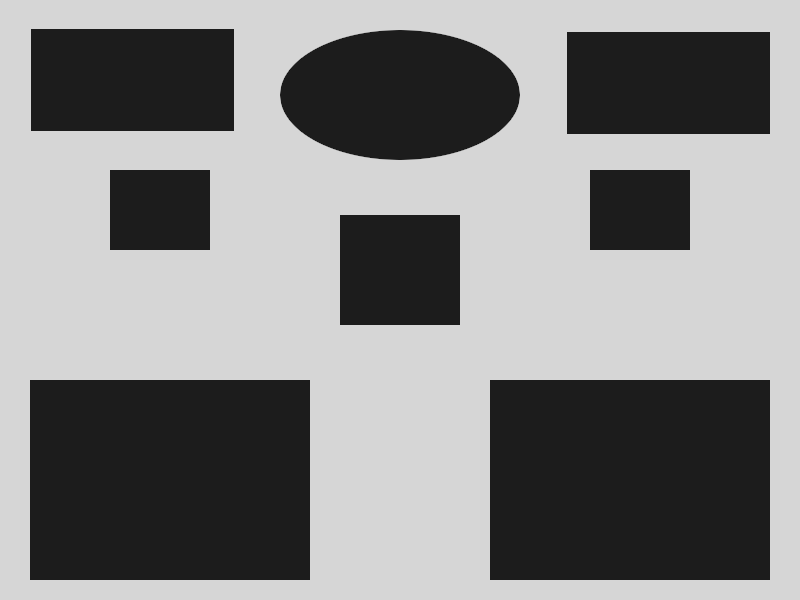
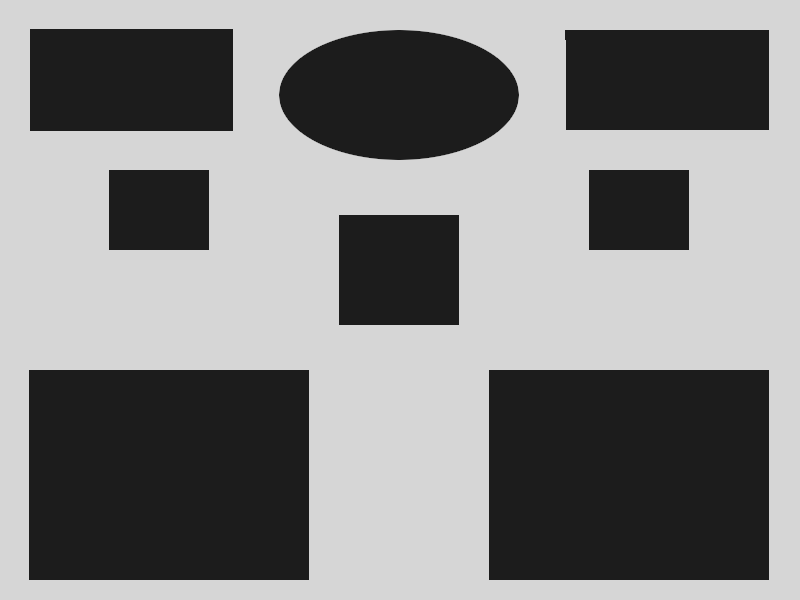
Adding the time-out timer and other stuff.

diff --git a/src/main_window.py b/src/main_window.py
@@ -7,37 +7,63 @@ import team
 
 WIDTH = 800
 HEIGHT = 600
-main_window = pyglet.window.Window(WIDTH, HEIGHT, "Fingerpost")
-timer = countdown.Timer(main_window.width//2 - 70, main_window.height//2 + 220, 50)
+main_window = pyglet.window.Window(WIDTH, HEIGHT, "Handball Fingerpost")
+fps = pyglet.clock.ClockDisplay()
+timer = countdown.Timer(WIDTH//2 - 92, HEIGHT//2 + 180, 60)
+time_out = None
+game_round = 1
 team1 = team.Team("Home", None)
 team2 = team.Team("Guest", None)
 cwd = os.getcwd()
-os.chdir(cwd[:len(cwd) - 3])
+os.chdir(cwd[:len(cwd) - 3])  # todo this isn't quite right
 background = pyglet.image.load("gfx\\Table.png")
+
+
+def show_round():
+    round = pyglet.text.Label(str(game_round), font_name="Calibri", font_size=90, x=340, y=276)
+    round.draw()
 
 
 @main_window.event
 def on_key_press(symbol, modifiers):
-    if symbol == key.SPACE:
+    global game_round, time_out
+    if symbol == key.SPACE and time_out is None:
         timer.start()
     elif symbol == key.LEFT:
-        team1.set_name(input("Type team's 1 name: "))
+        team1.set_name(input("Type first team's name: "))
     elif symbol == key.RIGHT:
-        team2.set_name(input("Type team's 2 name: "))
+        team2.set_name(input("Type second team's name: "))
+    elif symbol == key.UP:
+        timer.set_time(int(input("Time: ")))
+    elif symbol == key.A:
+        team1.score_up()
+    elif symbol == key.D:
+        team2.score_up()
+    elif symbol == key.ENTER and timer.finished:
+        game_round += 1
+        timer.set_time()
+    elif symbol == key.T and time_out is None and timer.running:
+        time_out = countdown.Timer(WIDTH//2 - 80, HEIGHT//2 + 140, 50, 3)
+        timer.interrupt()
+        time_out.start()
 
 
 @main_window.event
 def on_mouse_press(x, y, button, modifiers):
     if button == mouse.LEFT:
-        print('The left mouse button was pressed at {}, {}.'.format(x, y))
+        print('The left mouse button was pressed at ({}, {}).'.format(x, y))
 
 
-def init():
-    pass
-
-
+# def init():
+#     pass
+#
+#
 def update(dt):
-    timer.update()
+    global time_out
+    print(0)
+    if time_out is not None and time_out.finished:
+        time_out = None
+        timer.start()
 
 
 @main_window.event
@@ -45,5 +71,12 @@ def on_draw():
     main_window.clear()
     background.blit(0, 0)
     timer.render()
-    team1.render(30, HEIGHT - 100, 70, HEIGHT - 180)
-    team2.render(WIDTH - 160, HEIGHT - 100, WIDTH - 95, HEIGHT - 180)
+    if time_out is not None:
+        time_out.render()
+    team1.render(30, HEIGHT - 130, 110, 350)
+    team2.render(565, HEIGHT - 130, 590, 350)
+    show_round()
+    fps.draw()
+
+
+pyglet.clock.schedule_interval(update, 1/60)

diff --git a/src/team.py b/src/team.py
@@ -6,18 +6,23 @@ class Team:
         self.name = name
         self.players = players
         self.score = 0
+        self.team_name = None
+        self.team_score = None
 
     def render(self, name_x, name_y, score_x, score_y):
-        name = pyglet.text.Label("{}".format(self.name),
-                                 font_name="Calibri",
-                                 font_size=40,
-                                 x=name_x, y=name_y)
-        score = pyglet.text.Label("{}".format(self.score),
-                                  font_name="Calibri",
-                                  font_size=42,
-                                  x=score_x, y=score_y)
-        name.draw()
-        score.draw()
+        self.team_name = pyglet.text.Label(self.name,
+                                         font_name="Calibri",
+                                         font_size=40,
+                                         x=name_x, y=name_y)
+        self.team_score = pyglet.text.Label(str(self.score),
+                                          font_name="Calibri",
+                                          font_size=50,
+                                          x=score_x, y=score_y)
+        self.team_name.draw()
+        self.team_score.draw()
 
     def set_name(self, name):
         self.name = name
+
+    def score_up(self):
+        self.score += 1

diff --git a/src/countdown.py b/src/countdown.py
@@ -8,9 +8,11 @@ class Timer:
         self.size = size
         self.time = time
         self.countdown = self.time
+        self.running = False  # for 'starting' the timer only once
+        self.finished = False
 
     def render(self):
-        timer = pyglet.text.Label("{}:00".format(self.countdown),
+        timer = pyglet.text.Label("00:{:02d}".format(self.countdown),
                                   font_name="Calibri",
                                   font_size=self.size,
                                   x=self.x, y=self.y)
@@ -20,10 +22,21 @@ class Timer:
         if self.countdown > 0:
             self.countdown -= 1
         else:
-            print("Time's up.")
+            self.finished = True
+            pyglet.clock.unschedule(self.update)
+            print("Time's up!")
 
     def start(self):
-        pyglet.clock.schedule_interval(self.update, 1)
+        if not self.running:
+            pyglet.clock.schedule_interval(self.update, 1)
+            self.running = True
+
+    def set_time(self, time=20):
+        self.countdown = time
+        self.finished = False
+        self.running = False
+        pyglet.clock.unschedule(self.update)
 
     def interrupt(self):
-        pass
+        pyglet.clock.unschedule(self.update)
+        self.running = False
